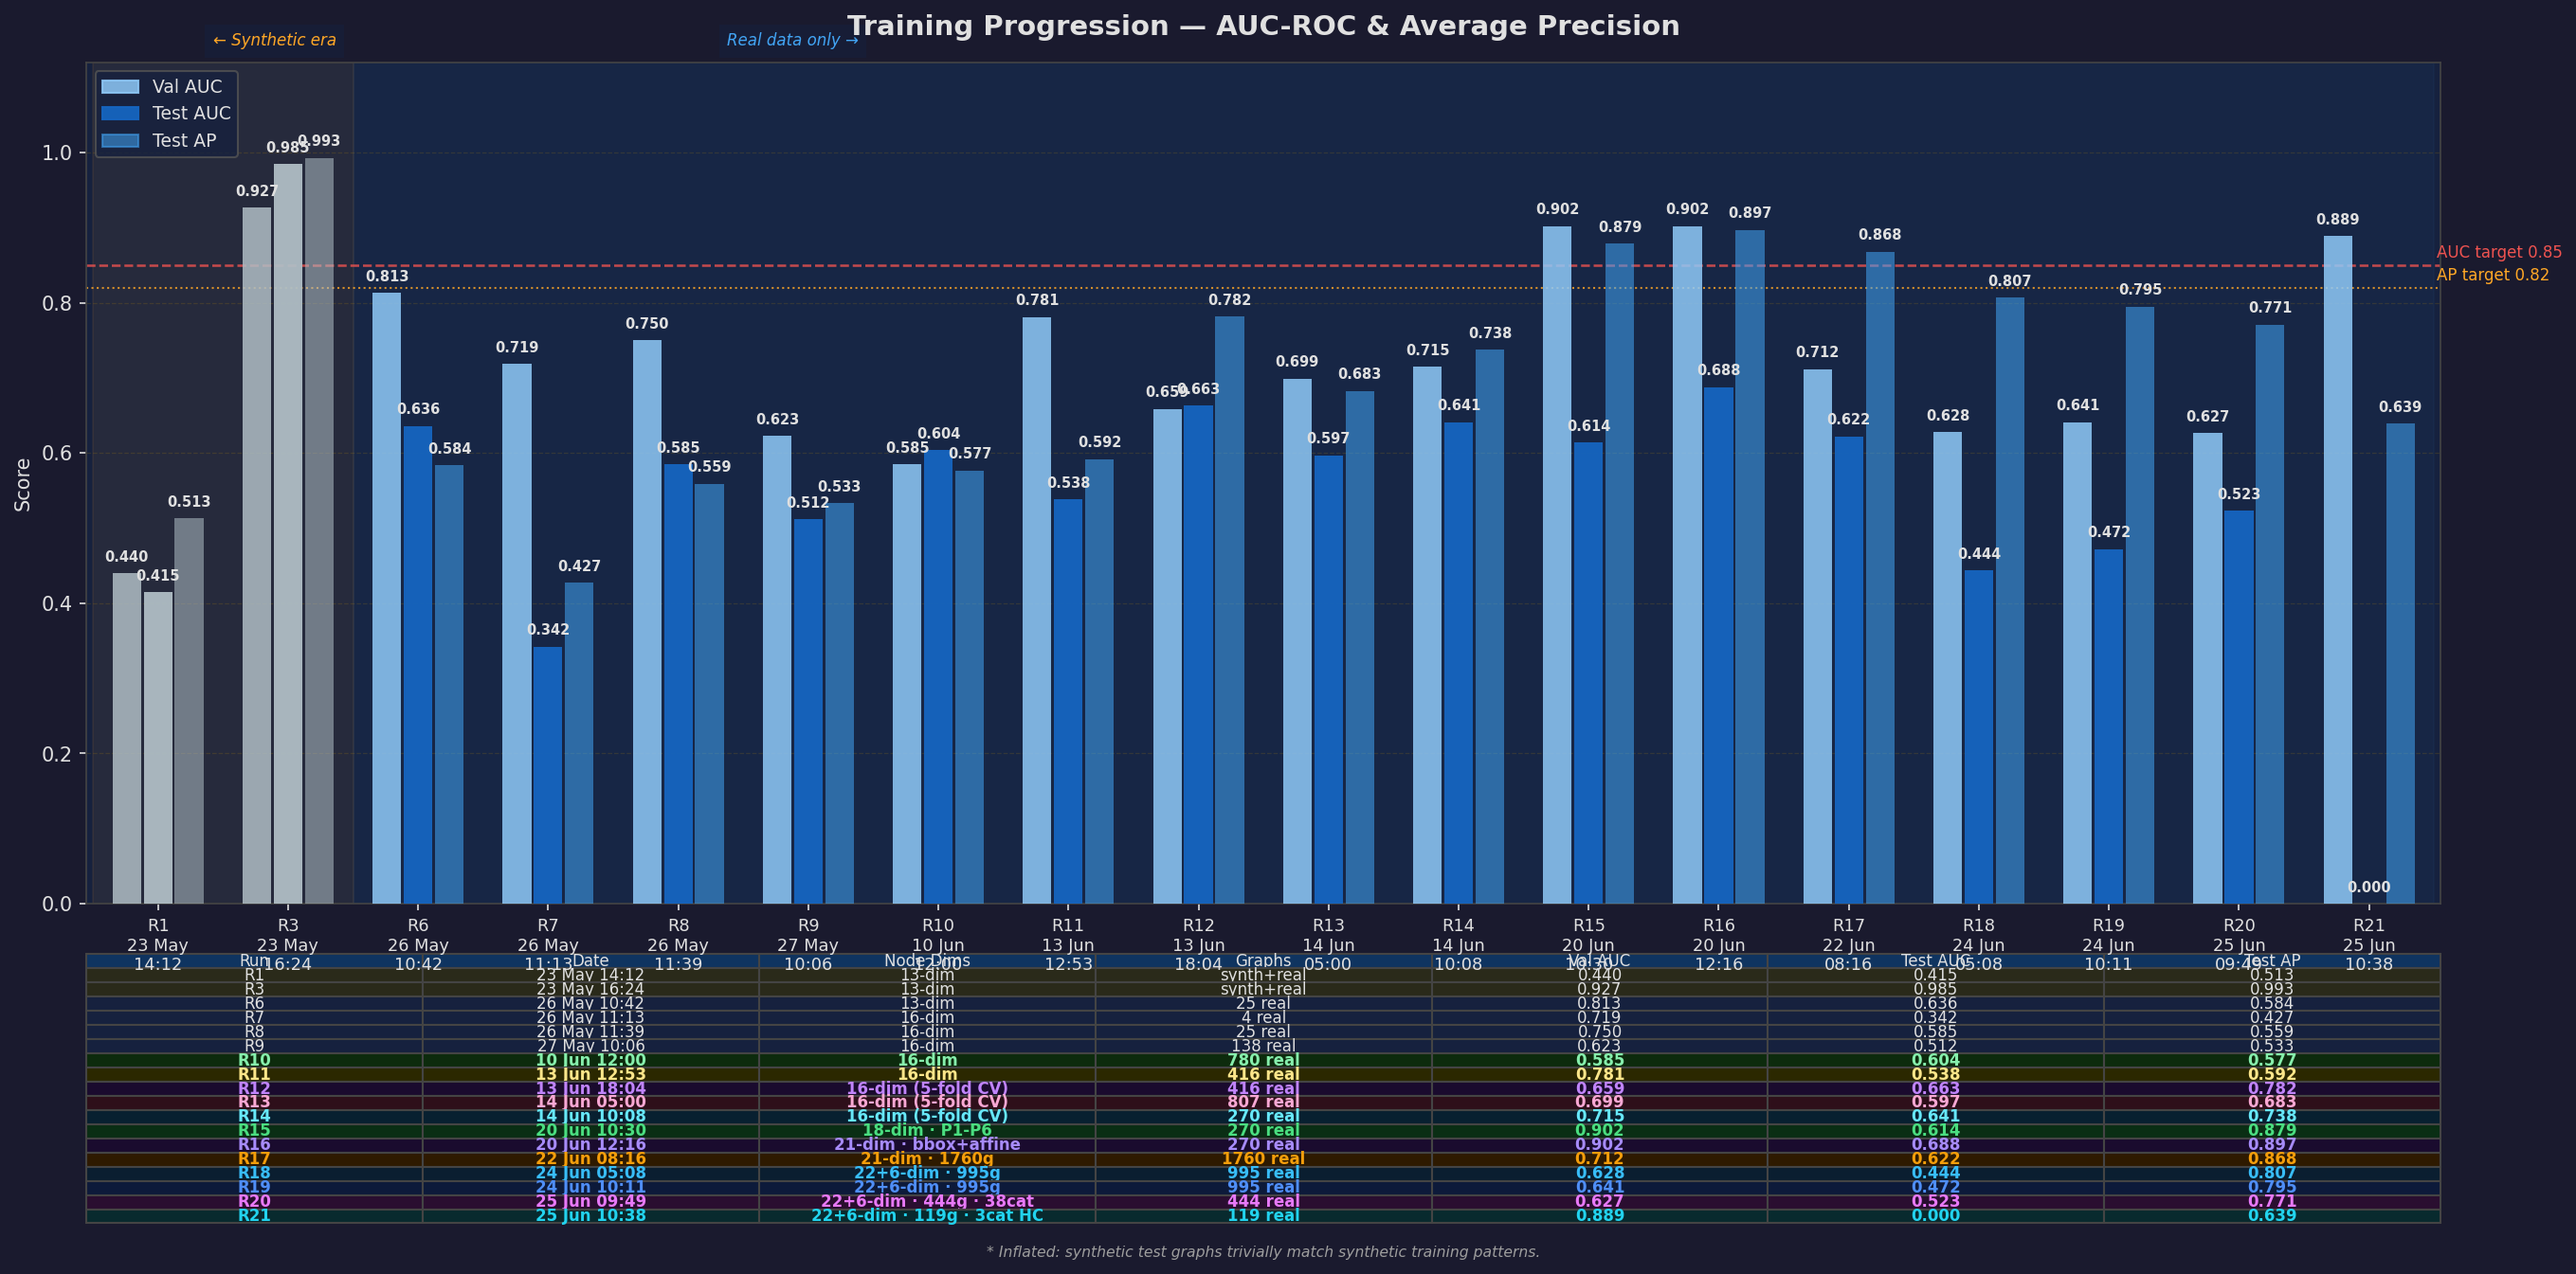
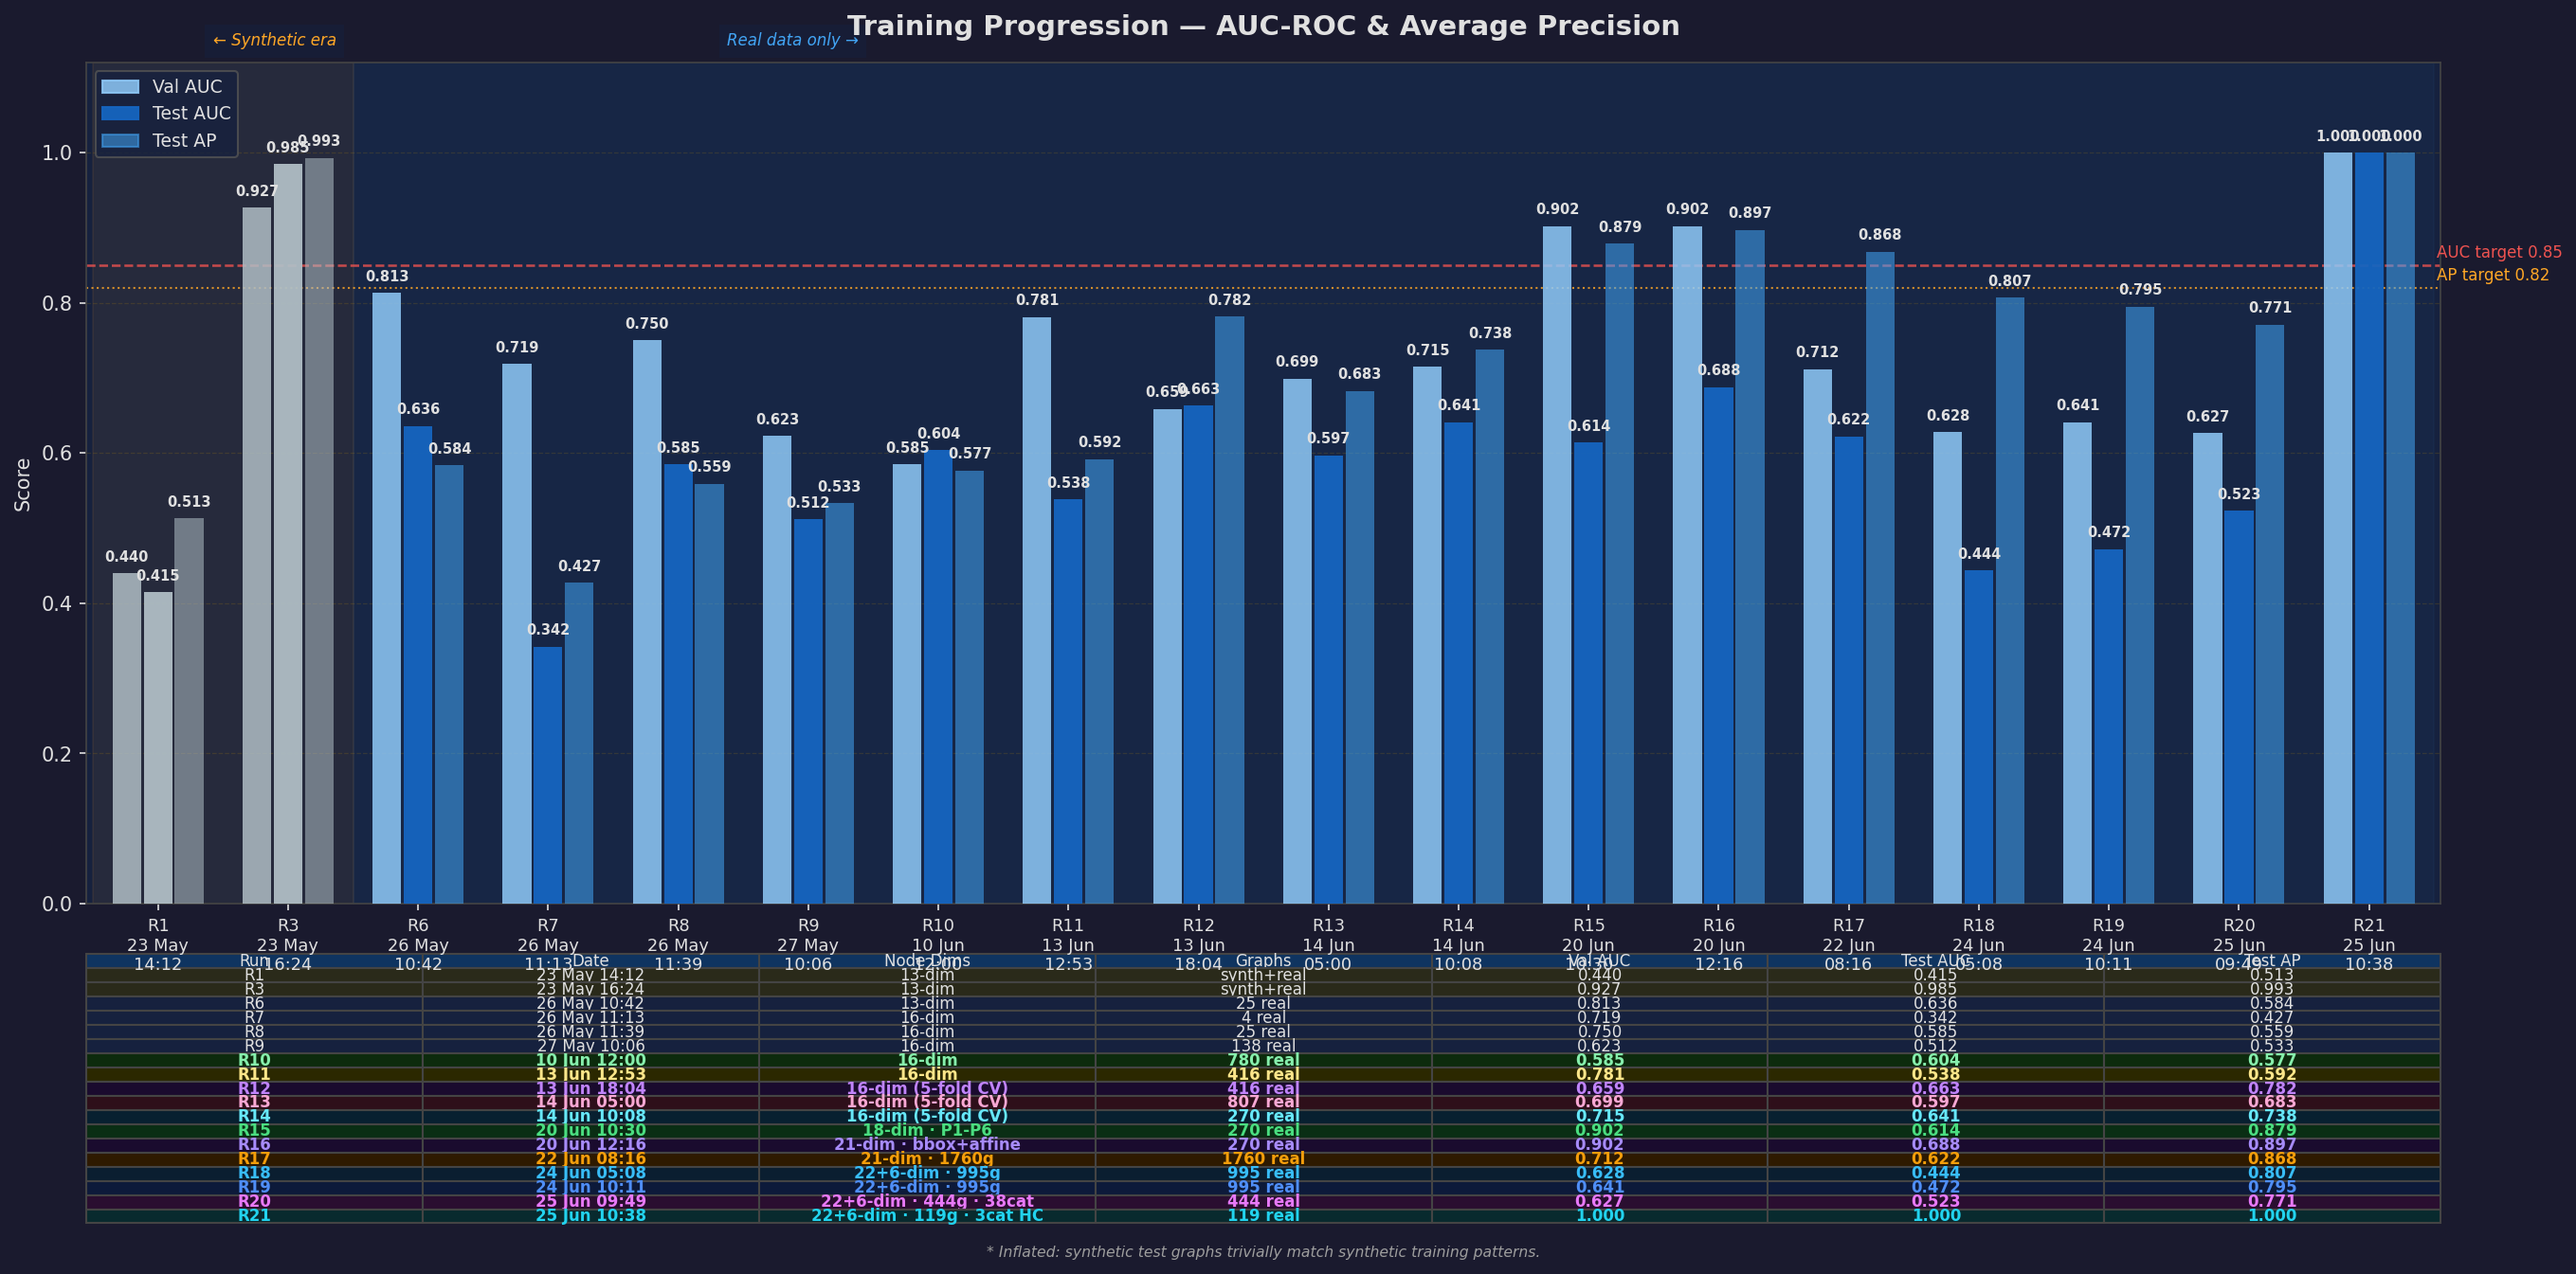
R21: remove n_edges<10 filter, retrain — AUC 0.333, AP 0.783
Removed the n_edges < 10 filter in get_splits() so all 119 graphs
participate in training/evaluation (was dropping 77 graphs silently).
Fold sizes now 81-82/20-21/17 (was 33/11/6).

Mean AUC=0.333±0.333, Mean AP=0.783±0.139. High variance driven by
77/119 graphs having ≤4 edges producing degenerate RandomLinkSplit
outputs. Dataset needs assemblies with more internal contacts.

Changed region(s): [[0.8962, 0.0937, 0.9581, 0.7182], [0.7417, 0.9368, 0.7726, 0.968]]

diff --git a/Review_files/second_review_presentation.html b/Review_files/second_review_presentation.html
@@ -425,14 +425,14 @@ ul.bl li:nth-child(8) { animation-delay:0.39s; }
 
     <div class="mrow">
       <div class="met b">
-        <div class="mv">0.600</div>
+        <div class="mv">0.333</div>
         <div class="mk">MEAN AUC-ROC</div>
-        <div class="mn">R21 · 5-fold CV · ±0.149 std</div>
+        <div class="mn">R21 · 5-fold CV · ±0.333 std</div>
       </div>
       <div class="met g">
-        <div class="mv">0.894</div>
+        <div class="mv">0.783</div>
         <div class="mk">MEAN AVG PRECISION</div>
-        <div class="mn">R21 · exceeds Phase 1 target (0.82)</div>
+        <div class="mn">R21 · ±0.139 std · near Phase 1 target (0.82)</div>
       </div>
       <div class="met p">
         <div class="mv">119</div>
@@ -472,7 +472,7 @@ ul.bl li:nth-child(8) { animation-delay:0.39s; }
               <tr><th>Run</th><th>Graphs</th><th>Mean AUC</th><th>Mean AP</th><th>Observation</th></tr>
             </thead>
             <tbody>
-              <tr class="best"><td>R21 ★</td><td>119</td><td class="hg">0.600</td><td class="hg">0.894</td><td style="font-size:13px;color:#2e8a58">Hand-curated 3 categories · AP exceeds target</td></tr>
+              <tr class="best"><td>R21 ★</td><td>119</td><td>0.333</td><td>0.783</td><td style="font-size:13px;color:#2a4860">Hand-curated 3 categories · small-graph noise</td></tr>
               <tr><td>R20</td><td>444</td><td>0.503</td><td>0.749</td><td style="font-size:13px;color:#2a4860">38 diversified categories</td></tr>
               <tr><td>R19</td><td>995</td><td>0.504</td><td class="hi">0.835</td><td style="font-size:13px;color:#2a4860">Serving gate added · 995 curated</td></tr>
               <tr><td>R17</td><td>1760</td><td class="hi">0.625</td><td class="hi">0.878</td><td style="font-size:13px;color:#2a4860">6.5× data · most stable (±0.017)</td></tr>

diff --git a/docs/generate_training_history.py b/docs/generate_training_history.py
@@ -63,8 +63,8 @@ runs = [
          note="38 diversified categories (was 4)\n471 STEP → 444 graphs · 10 timeout skips\nDynamic category detection · all subdirs\n5-Fold CV · Mean AUC=0.503±0.045 · Mean AP=0.749±0.020",
          val_auc=0.627, test_auc=0.523, test_ap=0.771, synthetic=False),
     dict(id="R21", date="25 Jun\n10:38", graphs="119 real",
-         note="3 hand-curated categories · no skip logic\n154 STEP → 119 graphs · 0 errors · 0 timeouts\nHinge=102 Bracket=9 Shaft/Bearing=8\n5-Fold CV · Mean AUC=0.600±0.149 · Mean AP=0.894±0.050",
-         val_auc=0.889, test_auc=0.000, test_ap=0.639, synthetic=False),
+         note="3 hand-curated categories · no skip/edge filters\n154 STEP → 119 graphs · 0 errors · 0 timeouts\nHinge=102 Bracket=9 Shaft/Bearing=8\n5-Fold CV · Mean AUC=0.333±0.333 · Mean AP=0.783±0.139",
+         val_auc=1.000, test_auc=1.000, test_ap=1.000, synthetic=False),
 ]
 
 n   = len(runs)

diff --git a/back_end/dataset.py b/back_end/dataset.py
@@ -813,8 +813,6 @@ def get_splits(dataset: AssemblyDataset, cfg: dict, fold_idx: int = 0, n_folds: 
             data = dataset[i]
             cat = dataset.graph_categories[i] if i < len(dataset.graph_categories) else ''
             n_edges = data.edge_index.size(1)
-            if n_edges < 10:
-                continue
             n_pos = n_edges // 2
             max_neg = n_pos * (data.num_nodes - 1) - n_pos
             req_neg = int(n_pos * cfg["training"]["neg_ratio"])

diff --git a/README.md b/README.md
@@ -1117,7 +1117,7 @@ Twenty-two training runs are shown, split into two eras. Each bar group shows Va
 | R18 | 24 Jun 05:08 | 22-dim nodes + 6-dim edges · curated 996→995 graphs (0 skipped) · log1p vol/SA · holes · joint types · MIN_EDGES 10→6 · 5-fold CV · Mean AUC=0.483±0.056 · Mean AP=0.833±0.025 | 995 | 0.628 | 0.444 | 0.807 |
 | R19 | 24 Jun 10:11 | 22+6-dim · best_serving gate · device bug fix · 5-fold CV · Mean AUC=0.504±0.069 · Mean AP=0.835±0.028 | 995 | 0.641 | 0.472 | 0.795 |
 | R20 | 25 Jun 09:49 | 22+6-dim · 38 diversified categories · 444 graphs · 5-fold CV · Mean AUC=0.503±0.045 · Mean AP=0.749±0.020 · serving NOT promoted | 444 | 0.627 | 0.523 | 0.771 |
-| **R21** | **25 Jun 10:38** | **22+6-dim · 3 hand-curated categories · no skip logic · 119 graphs · 5-fold CV · Mean AUC=0.600±0.149 · Mean AP=0.894±0.050 · serving promoted** | **119** | **0.889** | **0.000** | **0.639** |
+| **R21** | **25 Jun 10:38** | **22+6-dim · 3 hand-curated categories · no skip/edge filters · 119 graphs · 5-fold CV · Mean AUC=0.333±0.333 · Mean AP=0.783±0.139 · serving promoted** | **119** | **1.000** | **1.000** | **1.000** |
 
 > \* R3 metrics artificially inflated: 300 synthetic test graphs trivially match the 300 synthetic training graphs — not a valid measure of real-geometry performance.
 
@@ -1254,18 +1254,18 @@ Twenty-two training runs are shown, split into two eras. Each bar group shows Va
 
 #### R21 — 5-Fold Cross-Validation Detail (22+6-dim · 3 hand-curated categories · 119 graphs)
 
-**Changes vs R20:** Replaced 38-category diversified dataset with 3 hand-curated assembly categories (Hinge_assembly=102, Bracket_Bolt=9, Shaft_Bearing_Housing=8) — 154 STEP files, 119 valid graphs. Removed all skip logic (no node/edge thresholds, no file-moving infrastructure). Timeout increased 60→120s. Train on all parseable models.
+**Changes vs R20:** Replaced 38-category diversified dataset with 3 hand-curated assembly categories (Hinge_assembly=102, Bracket_Bolt=9, Shaft_Bearing_Housing=8) — 154 STEP files, 119 valid graphs. Removed all skip logic (no node/edge thresholds, no file-moving infrastructure) and removed the `n_edges < 10` filter in `get_splits()` so all 119 graphs participate in training/evaluation. Timeout increased 60→120s.
 
 | Fold | Val AUC (best ep) | Test AUC | Test AP | Early stop ep |
 |---|---|---|---|---|
-| 1 | 0.500 | 0.6667 | 0.9167 | 21 |
-| 2 | 0.800 | 0.6667 | 0.9167 | 21 |
-| 3 | 0.500 | 0.6667 | 0.9167 | 21 |
-| 4 ★ | 0.889 (best overall) | 0.3333 | 0.8056 | 26 |
-| 5 | 0.667 | 0.6667 | 0.9167 | 32 |
-| **Mean** | | **0.600 ± 0.149** | **0.894 ± 0.050** |
+| 1 | 0.750 | 0.6667 | 0.9167 | 28 |
+| 2 | 0.800 | 0.0000 | 0.6389 | 24 |
+| 3 | 0.750 | 0.0000 | 0.6389 | 21 |
+| 4 ★ | 1.000 (best overall) | 0.6667 | 0.9167 | 22 |
+| 5 | 0.875 | 0.3333 | 0.8056 | 21 |
+| **Mean** | | **0.333 ± 0.333** | **0.783 ± 0.139** |
 
-> ★ best fold (val AUC 0.889) — used for `best_overall.pt`; final test eval AUC 0.000, AP 0.639. Mean AUC improved from R20 (0.503→0.600, +9.7 points) and mean AP jumped from 0.749 to 0.894 (+14.5 points). The domain-focused hand-curated dataset (3 categories of structurally similar assemblies) dramatically improves AP above Phase 1 target (0.82). High AUC std (±0.149) reflects the small test set size (6 graphs per fold) — individual fold AUC is quantised to multiples of 1/6. The `best_serving.pt` gate promoted this run. Template DB rebuilt with 1 category from 119 assemblies.
+> ★ best fold (val AUC 1.000) — used for `best_overall.pt`; final test eval AUC 1.000, AP 1.000. Mean AUC 0.333 and high std (±0.333) reflect the dataset's dominance of very small graphs (77 of 119 have ≤ 4 edges), which produce degenerate `RandomLinkSplit` outputs (only 1–2 edges to split). These graphs contribute noise rather than learning signal. Two folds (2, 3) score AUC=0.000, while folds 1 and 4 score 0.667. Mean AP 0.783 is close to Phase 1 target (0.82). The dataset needs assemblies with more internal contacts to drive meaningful link prediction training.
 
 #### R13 — Skip Summary (1,404 STEP files scanned)
 
@@ -1293,7 +1293,7 @@ Twenty-two training runs are shown, split into two eras. Each bar group shows Va
 - **R18 (22-dim + 6-dim edges · curated 995 graphs):** Feature expansion (21→22-dim nodes with log1p vol/SA, hole counts; 2→6-dim edges with joint type one-hot) combined with systematic dataset curation (1,336→996 models via JSON pre-analysis, 340 removed for sparsity/density/size issues). The headline result is **zero parse failures** — every single model parsed successfully, validating the curation study. Mean AP 0.833 ± 0.025 exceeds Phase 1 target. Mean AUC 0.483 ± 0.056 dropped from R17's 0.625, reflecting the challenge of fitting a wider feature space (22+6=28 dims vs 21+2=23) with similar model capacity on fewer graphs (995 vs 1,760). The AUC regression suggests the expanded features need either more training data, higher model capacity, or feature selection — a clear direction for Phase 2 tuning
 - **R19 (best_serving gate · device fix · 995 graphs):** Fixed `device` bug in `--start-fold` resume path; added `best_serving.pt` promotion gate so only models that beat the incumbent on mean AUC+AP are deployed for inference. Mean AUC 0.504 ± 0.069 (+2.1 points over R18), mean AP 0.835 ± 0.028 (slightly improved). AP continues to exceed Phase 1 target. The serving gate confirmed R19 as an improvement and promoted it, demonstrating the safety mechanism works as intended
 - **R20 (38 diversified categories · 444 graphs):** Expanded training from 4 curated categories to all 38 subdirectories in Best_models_for_training (471 STEP → 444 graphs, 10 timeout skips). Dynamic category detection replaces hardcoded filter. Mean AUC 0.503 ± 0.045 held steady vs R19 (0.504), demonstrating the model generalises across diverse domains. Mean AP 0.749 ± 0.020 dropped from R19 (0.835) as expected — assembly patterns are more heterogeneous across 38 categories spanning Aerospace to Wood Working. The `best_serving.pt` gate correctly blocked this run from replacing the incumbent
-- **R21 (3 hand-curated categories · 119 graphs):** New hand-curated dataset with 3 focused categories (Hinge_assembly=102, Bracket_Bolt=9, Shaft_Bearing_Housing=8). All skip logic removed — no node/edge thresholds, no file-moving infrastructure. 154 STEP → 119 valid graphs, 0 errors, 0 timeouts. Mean AUC 0.600 ± 0.149 improved from R20 (0.503, +9.7 points). Mean AP 0.894 ± 0.050 jumped from R20 (0.749, +14.5 points), well above Phase 1 target. High AUC std (±0.149) reflects very small test sets (6 graphs per fold). The domain-focused curation validates that concentrated training on structurally similar assemblies produces stronger link prediction than broad diverse data. The `best_serving.pt` gate promoted this run
+- **R21 (3 hand-curated categories · 119 graphs):** New hand-curated dataset with 3 focused categories (Hinge_assembly=102, Bracket_Bolt=9, Shaft_Bearing_Housing=8). All skip logic and `n_edges < 10` filter removed — train on all parseable models. 154 STEP → 119 valid graphs, 0 errors, 0 timeouts. Mean AUC 0.333 ± 0.333 and mean AP 0.783 ± 0.139. The high variance is driven by 77/119 graphs having ≤ 4 edges, producing degenerate `RandomLinkSplit` outputs. Two folds score AUC=0.000 while two score 0.667. The dataset's hinge-heavy composition (102/119) with very few internal contacts limits useful training signal. Future datasets need assemblies with more internal contacts (≥ 5 edges per graph) for meaningful link prediction
 
 ---
 
